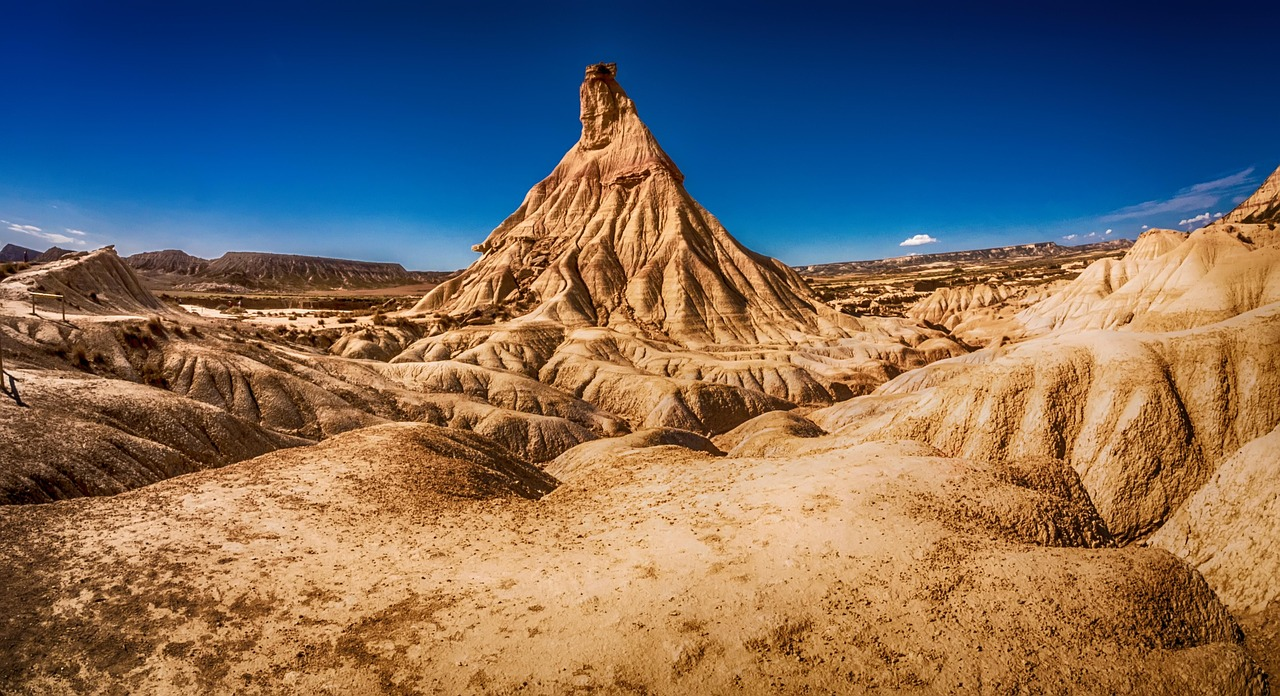
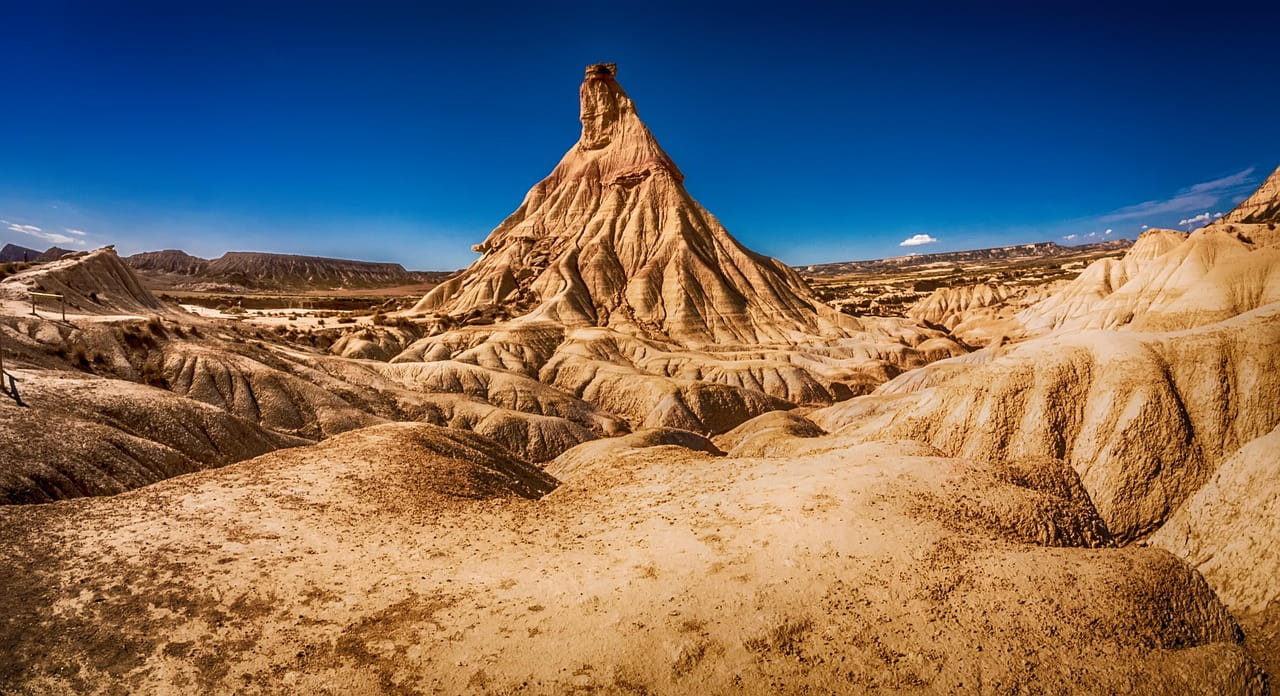
optimize images for web

diff --git a/frontend/src/styles/pages/index.css b/frontend/src/styles/pages/index.css
@@ -4,7 +4,7 @@
 }
 
 .u-section-1 {
-  background-image: linear-gradient(0deg, rgba(102, 102, 102, 0.45), rgba(102, 102, 102, 0.45)), url('../../assets/images/ChatGPTImageOct23202504_14_01PM.png');
+  background-image: linear-gradient(0deg, rgba(102, 102, 102, 0.45), rgba(102, 102, 102, 0.45)), url('../../assets/images/ChatGPTImageOct23202504_14_01PM.jpg');
   background-size: cover, cover;
 }
 
@@ -145,7 +145,7 @@
 .u-section-2 .u-image-1 {
   width: 328px;
   height: 328px;
-  background-image: url("../../assets/images/IranOnEarth.png");
+  background-image: url("../../assets/images/IranOnEarth.jpg");
   background-position: 50% 50%;
   --animation-custom_in-translate_x: -300px;
   --animation-custom_in-translate_y: 0px;
@@ -333,7 +333,7 @@
   --animation-custom_in-opacity: 0;
   --animation-custom_in-rotate: 0deg;
   --animation-custom_in-scale: 0.3;
-  background-image: linear-gradient(0deg, rgba(0, 0, 0, 0.1), rgba(0, 0, 0, 0.1)), url('../../assets/images/photo-1619522108988-3724075be800.jpeg');
+  background-image: linear-gradient(0deg, rgba(0, 0, 0, 0.1), rgba(0, 0, 0, 0.1)), url('../../assets/images/photo-1619522108988-3724075be800.jpg');
   --radius: 50px;
   background-position: 50% 50%;
 }
@@ -497,7 +497,7 @@
   --animation-custom_in-opacity: 0;
   --animation-custom_in-rotate: 0deg;
   --animation-custom_in-scale: 0.3;
-  background-image: linear-gradient(0deg, rgba(0, 0, 0, 0.1), rgba(0, 0, 0, 0.1)), url('../../assets/images/photo-1632782532013-bd3f5f9197db.jpeg');
+  background-image: linear-gradient(0deg, rgba(0, 0, 0, 0.1), rgba(0, 0, 0, 0.1)), url('../../assets/images/photo-1632782532013-bd3f5f9197db.webp');
   background-position: 50% 50%;
   --radius: 50px;
 }
@@ -552,7 +552,7 @@
   --animation-custom_in-opacity: 0;
   --animation-custom_in-rotate: 0deg;
   --animation-custom_in-scale: 0.3;
-  background-image: linear-gradient(0deg, rgba(0, 0, 0, 0.1), rgba(0, 0, 0, 0.1)), url('../../assets/images/photo-1691600351468-f6cbbb5987a9.jpeg');
+  background-image: linear-gradient(0deg, rgba(0, 0, 0, 0.1), rgba(0, 0, 0, 0.1)), url('../../assets/images/photo-1691600351468-f6cbbb5987a9.webp');
   background-position: 50% 50%;
   --radius: 50px;
 }
@@ -876,7 +876,7 @@
 .u-section-4 .u-image-1 {
   height: 238px;
   width: 238px;
-  background-image: url("../../assets/images/BeigeSimpleMinimalisticWomanAvatar1.png");
+  background-image: url("../../assets/images/BeigeSimpleMinimalisticWomanAvatar1.webp");
   background-position: 50% 50%;
   --animation-custom_in-translate_x: 50px;
   --animation-custom_in-translate_y: 0px;
@@ -997,7 +997,7 @@
 .u-section-4 .u-image-3 {
   height: 221px;
   width: 221px;
-  background-image: url("../../assets/images/ColourfulMinimalBrainstormRoadmapMindMap.png");
+  background-image: url("../../assets/images/ColourfulMinimalBrainstormRoadmapMindMap.webp");
   background-position: 50% 50%;
   --animation-custom_in-translate_x: 50px;
   --animation-custom_in-translate_y: 0px;
@@ -1044,7 +1044,7 @@
 .u-section-4 .u-image-4 {
   height: 238px;
   width: 238px;
-  background-image: url("../../assets/images/YellowandPinkColorfulCreditCardHacksTipsandTricksInstagramPost.png");
+  background-image: url("../../assets/images/YellowandPinkColorfulCreditCardHacksTipsandTricksInstagramPost.webp");
   background-position: 50% 50%;
   --animation-custom_in-translate_x: 50px;
   --animation-custom_in-translate_y: 0px;

diff --git a/frontend/places/each-place.html b/frontend/places/each-place.html
@@ -238,7 +238,7 @@
           </div>
           <div class="u-carousel-item u-gallery-item u-carousel-item-4" data-image-width="626" data-image-height="417">
             <div class="u-back-slide" data-image-width="1100" data-image-height="1100">
-              <img class="u-back-image u-expanded" src="../src/assets/images/fgfg.jpg">
+              <img class="u-back-image u-expanded" src="../src/assets/images/fgfg.webp">
             </div>
             <div class="u-over-slide u-over-slide-4"></div>
           </div>
@@ -282,7 +282,7 @@ c6.177,6.18,9.262,14.271,9.262,22.366C354.708,234.018,351.617,242.115,345.441,24
             <img class="u-carousel-thumbnail-image u-image" src="../src/assets/images/-min.jpg">
           </li>
           <li class="u-carousel-thumbnail u-carousel-thumbnail-1" data-u-target="#carousel-d684" data-u-slide-to="3">
-            <img class="u-carousel-thumbnail-image u-image" src="../src/assets/images/fgfg.jpg">
+            <img class="u-carousel-thumbnail-image u-image" src="../src/assets/images/fgfg.webp">
           </li>
         </ol>
       </div>

diff --git a/frontend/trips/each-trip.html b/frontend/trips/each-trip.html
@@ -221,7 +221,7 @@
     data-animation-direction="">
     <div class="u-clearfix u-sheet u-sheet-1">
       <img class="u-image u-image-contain u-image-default u-image-1"
-        src="../src/assets/images/8ee39f94113d6734b87999ec073549ce1.png" alt="" data-image-width="123"
+        src="../src/assets/images/8ee39f94113d6734b87999ec073549ce1.webp" alt="" data-image-width="123"
         data-image-height="150" data-href="#" data-animation-name="customAnimationIn" data-animation-duration="1000"
         data-animation-delay="0" data-animation-direction="">
       <p class="u-custom-font u-text u-text-default u-text-grey-70 u-text-1" data-animation-name="customAnimationIn"

diff --git a/frontend/src/styles/responsive/login-signup-responsive.css b/frontend/src/styles/responsive/login-signup-responsive.css
@@ -14,7 +14,7 @@
     }
 
     .bg-login {
-        background-image: url("../../assets/images/login-signup/login-bg-mobile.png");
+        background-image: url("../../assets/images/login-signup/login-bg-mobile.webp");
         height: 100vh;
         top: 0;
         left: 0;
@@ -23,7 +23,7 @@
     }
 
     .bg-signup {
-        background-image: url("../../assets/images/login-signup/signup-bg-mobile.png");
+        background-image: url("../../assets/images/login-signup/signup-bg-mobile.webp");
         height: 100vh;
         top: -100vh;
         left: 0 !important;

diff --git a/frontend/src/styles/pages/login-signup.css b/frontend/src/styles/pages/login-signup.css
@@ -47,11 +47,11 @@ body {
 }
 
 .bg-login {
-    background-image: url("../../assets/images/login-signup/login-bg-desktop.png");
+    background-image: url("../../assets/images/login-signup/login-bg-desktop.webp");
 }
 
 .bg-signup {
-    background-image: url("../../assets/images/login-signup/signup-bg-desktop.png");
+    background-image: url("../../assets/images/login-signup/signup-bg-desktop.webp");
     left: -100%;
 }
 
